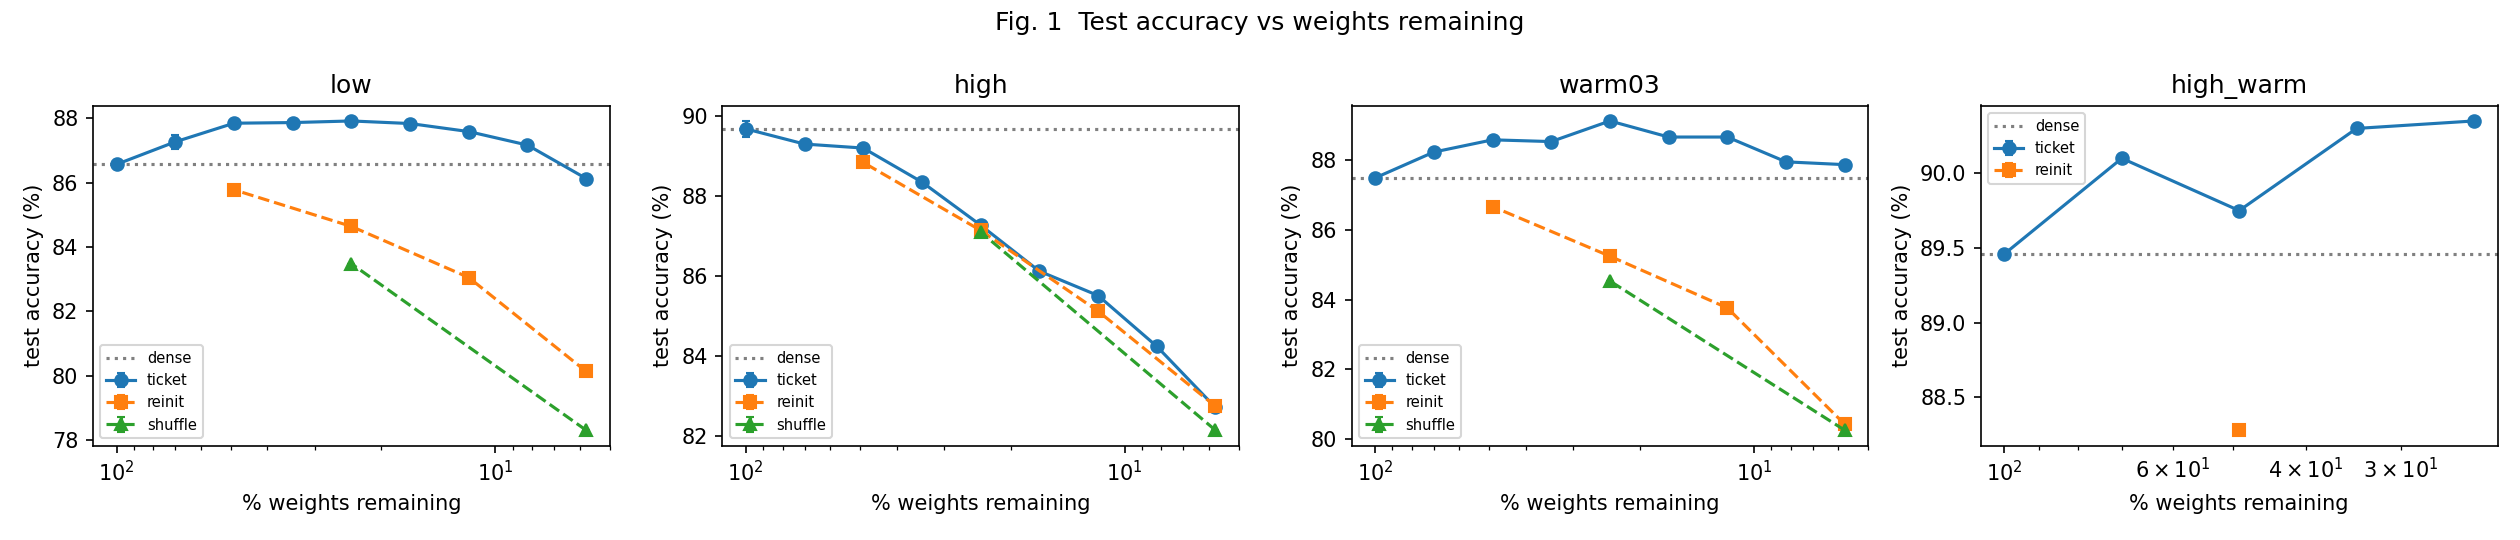
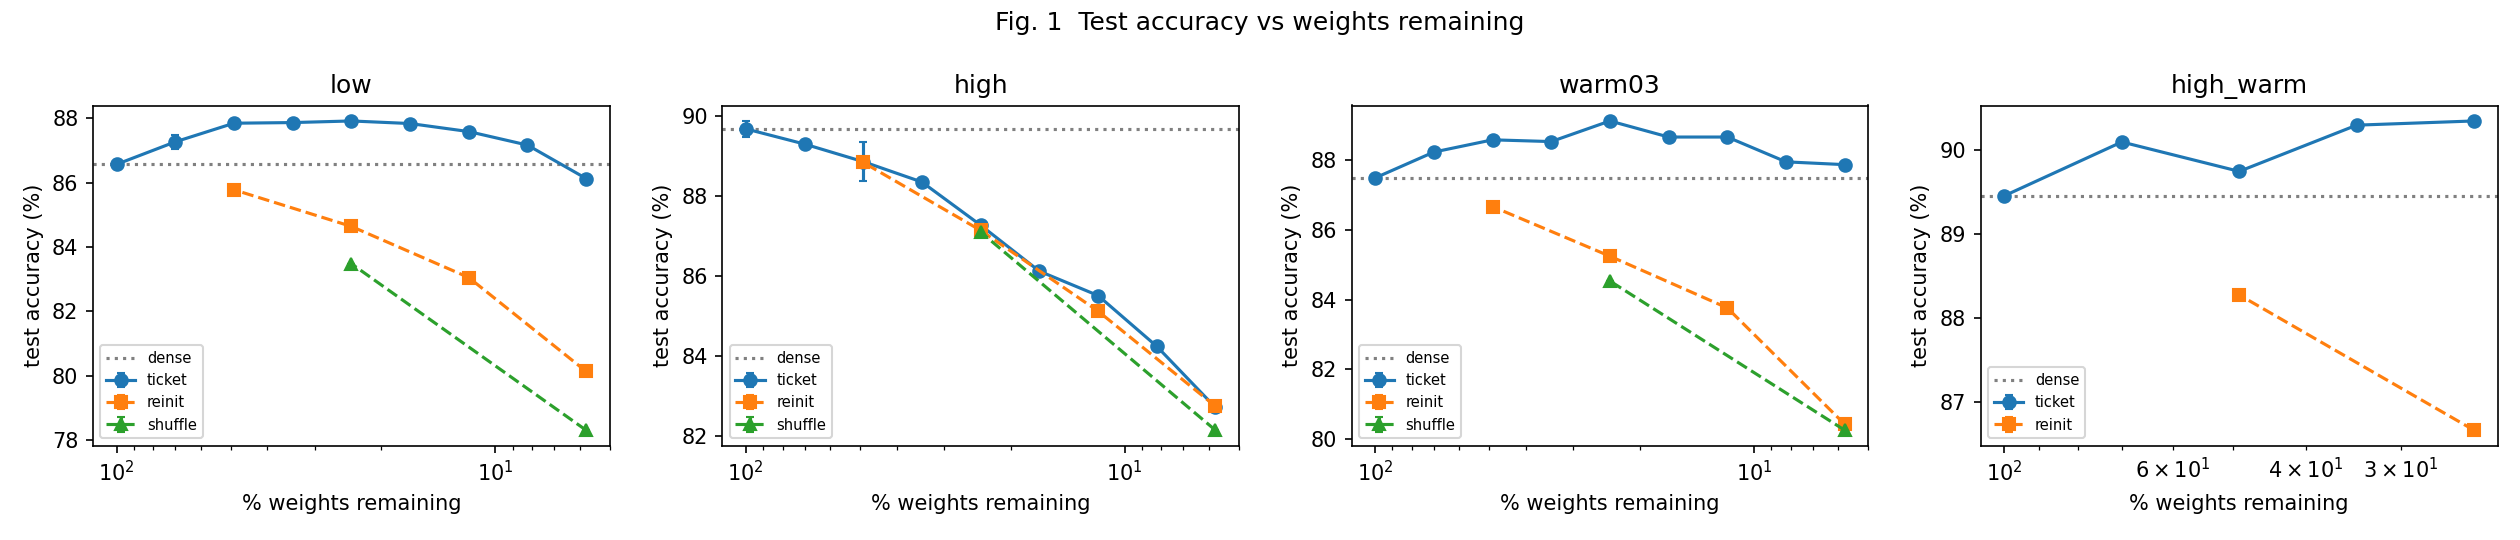
Session 5 07:25: high_warm 2nd winning ticket, seed 1 replicates; watcher labels Phase B commits

diff --git a/Methodology.md b/Methodology.md
@@ -142,10 +142,10 @@ collapse rather than a systematic ticket deficit (F1, F2).
 | 2 | Benchmark / smoke run on the T4: ~9 min per 15k training, 2.46 GB peak VRAM; budget re-derived | **done** (session 2) |
 | 3a | Phase A: `low` seed 0 (15 trainings) | **done** (session 4, 09:05 UTC) |
 | 3b | Phase A: `high`, `warm03` seed 0 (15 each), in parallel with `low` under MPS | high **15/15, done** (05:53 UTC, session 5); warm03 **14/15** (r8 shuffle running) |
-| 3b' | Phase A: `high_warm` seed 0 (15) | **5/15** at 06:44 UTC (session 5), in parallel with the seed-1 chains |
+| 3b' | Phase A: `high_warm` seed 0 (15) | **8/15** at 07:25 UTC (session 5), in parallel with the seed-1 chains |
 | 3c | Conv-4 chain at eta = 0.1 with the full S(t) trajectory | optional; needs `pilot/data/*.gz` on Drive (O8) |
 | 4 | **Gate A:** the ticket beats trained baselines at ≥ 3 sparsities for `low` and `warm03`, and not for `high` (`results/gate_a.md`). If it fails, stop and write up why | **PASSED on seed 0, final for the three gate conditions** (low 4/4, warm03 4/4, high 0/4 winning tickets, D12) |
-| 5 | Phase B: seed 1 of `low`, `high` and `warm03` (error bars) | **queued** (session 5): low/high start when warm03 seed 0 ends (≈ 06:20 UTC), warm03 when high_warm ends; in parallel with high_warm under MPS |
+| 5 | Phase B: seed 1 of `low`, `high` and `warm03` (error bars) | **running** (session 5): low s1 2/15, high s1 3/15 at 07:25 UTC; warm03 s1 starts when high_warm ends |
 | 6 | Phase B: H4 (lam selection, then 3 conditions × 3 masks × ticket + shuffle) | pending |
 | 7 | Analysis: `python -m analysis.plots` → summary.csv, figs 1–5, metrics table, gate_a.md | script ready; re-run every 15 min by the autosave |
 | 8 | `results/FINDINGS.md`: verdict + numbers for H1–H4; final report | pending |
@@ -273,7 +273,7 @@ to 10k before any condition or seed is cut.
   | 70.1 | +0.77 | −0.44 | +0.74 | +0.64 |
   | 49.1 | +1.19 | −0.62 | +1.09 | +0.29 |
   | 34.5 | +1.21 | −1.47 | +1.04 | +0.84 |
-  | 24.2 | +1.26 | −2.55 | +1.63 | |
+  | 24.2 | +1.26 | −2.55 | +1.63 | +0.89 |
   | 17.0 | +1.18 | −3.70 | +1.17 | |
   | 12.0 | +0.93 | −4.31 | +1.17 | |
   | 8.4 | +0.51 | −5.58 | +0.46 | |
@@ -311,3 +311,7 @@ to 10k before any condition or seed is cut.
 - **Seed 1 dense runs (session 5):** low 86.48% (seed 0: 86.66%), high 89.55% (89.83%): the dense accuracies replicate within 0.3 pp.
   **high seed 1 has S(0) = 1.07** (lambda_max at its theta_0 ≈ 40.6, vs 25.5 for seed 0): it *starts* above the stability limit, yet does not
   diverge or spike (1.0x), max S(25–3k) 0.495, R_0.2 0.248. Sharpness at init does not predict failure, as H2 assumes (and why S(0) is reported apart).
+- **high_warm r4 (24.2%, session 5):** ticket 90.35% (+0.89 pp vs dense), reinit 86.67% → **+3.68 pp**, the 2nd winning ticket at eta = 0.1
+  (+1.47 at 49.1%). high_warm tickets so far: +0.64, +0.29, +0.84, +0.89 pp vs dense, all winning where a baseline exists; max S(25–3k) 0.05–0.07.
+- **Seed 1 replicates seed 0 so far (ticket − dense, pp):** low r1 +0.63 (seed 0 +0.77); high r1 −0.32 (−0.44), r2 −1.02 (−0.62).
+  The high-LR ticket deficit appears on both seeds. high s1 S(0) stays high on the sparse masks too (0.53, 0.87), with no divergence.

diff --git a/NOTES.md b/NOTES.md
@@ -8,7 +8,7 @@ measured and what is still open. **Update it at the end of every work session.**
 
 ## 1. Current status (2026-09-29, session 4, Colab T4)
 
-- **SESSION 5 (2026-09-30, from 04:38 UTC): Phase A resumed; 47/60 done at 05:54 UTC, Gate A final: PASSED.** high, warm03 and high_warm run under MPS
+- **SESSION 5 (2026-09-30, from 04:38 UTC): Phase A resumed; 52/60 done at 07:25 UTC (only high_warm left), Gate A final: PASSED; seed 1 running.** high, warm03 and high_warm run under MPS
   with the watcher. Left: warm03 1 (r8 shuffle), high_warm 12. high is complete. **Phase B seed 1 (low, high) starts when warm03 exits (≈ 06:20), warm03 seed 1 when
   high_warm exits**; high_warm then ends ≈ 10:45 UTC, seed 1 ≈ 13:30–14:00 UTC. Restart after a VM reset: `bash colab/resume_phaseA.sh high_warm; bash colab/resume_phaseB.sh`.
   **Budget (user, session 5): 20 h of Colab runtime left** → `src/utils.py`: `RUNTIME_USED_BEFORE_H = 10.0`, `RUNTIME_SINCE = 2026-09-30T05:02:00`.
@@ -492,3 +492,9 @@ Reminders:
     - **low s1 r0 (dense) 86.48%** (seed 0 86.66%), R_0.2 0.641. **high s1 r0 (dense) 89.55%** (seed 0 89.83%), no spike, but **S(0) = 1.07**:
       seed 1's theta_0 has lambda_max ≈ 40.6 (seed 0: 25.5), so it starts above S = 1 and still trains normally (max S(25–3k) 0.495).
     - Forecast unchanged: high_warm ≈ 10:30, low/high s1 ≈ 12:15, then warm03 s1 + H4 → all done ≈ 17:00 UTC, ≈ 22 h used.
+  - **07:25 UTC check:** 3 chains running, GPU 100%. Runtime 12.4 h. Phase A 52/60, seed 1 5/45.
+    - **high_warm r4 (24.2%) ticket 90.35% (+0.89 pp vs dense), reinit 86.67% → +3.68 pp**: 2nd winning ticket at eta = 0.1. r4 shuffle next.
+    - **Seed 1 replicates (ticket − dense):** low r1 87.11% (+0.63 pp; seed 0 +0.77); high r1 89.23% (−0.32; seed 0 −0.44), high r2 88.53% (−1.02; seed 0 −0.62).
+      high s1 S(0) 0.53 / 0.87 on the sparse masks, no divergence, no spikes.
+    - `colab/watcher.sh`: commit messages now say `Phase B (seed1)` for seed-1 results (the ones before 07:30 say "Phase A"). Watcher restarted
+      (a `pkill -f colab/watcher.sh` also killed the calling shell; use `pkill -f "^bash colab/watcher.sh"`).

diff --git a/results/gate_a.md b/results/gate_a.md
@@ -2,7 +2,7 @@
 
 - **low**: ticket beats the best trained baseline at 4/4 sparsities (49.0%, 24.0%, 11.8%, 5.8%); expected >= 3 -> PASS
 - **warm03**: ticket beats the best trained baseline at 4/4 sparsities (49.0%, 24.0%, 11.8%, 5.8%); expected >= 3 -> PASS
-- **high**: winning ticket (advantage > 0 and acc >= dense - 0.5 pp) at 1/4 sparsities (49.0%); expected none -> FAIL
-  (positive advantage without a winning ticket at 3/4: 49.0% +0.36 pp, ticket -0.48 pp vs dense, 24.0% +0.13 pp, ticket -2.41 pp vs dense, 11.8% +0.39 pp, ticket -4.17 pp vs dense)
+- **high**: winning ticket (advantage > 0 and acc >= dense - 0.5 pp) at 0/4 sparsities (); expected none -> PASS
+  (positive advantage without a winning ticket at 3/4: 49.0% +0.36 pp, ticket -0.82 pp vs dense, 24.0% +0.13 pp, ticket -2.41 pp vs dense, 11.8% +0.39 pp, ticket -4.17 pp vs dense)
 
-**Gate A: NOT PASSED** (all verdicts are in ticket_advantage.csv)
+**Gate A: PASSED** (all verdicts are in ticket_advantage.csv)
